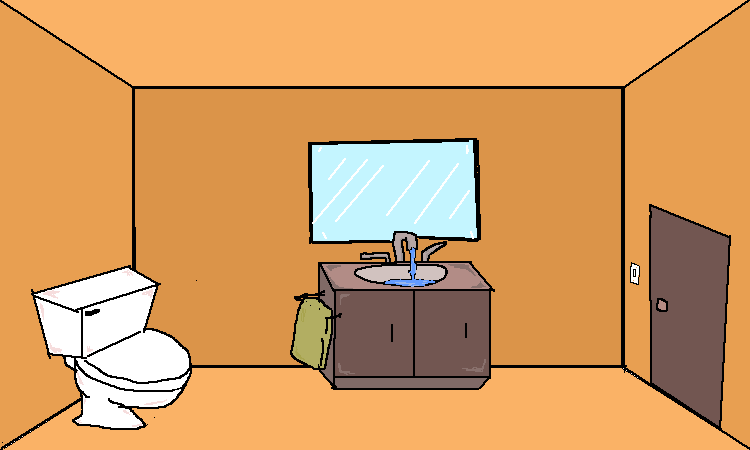
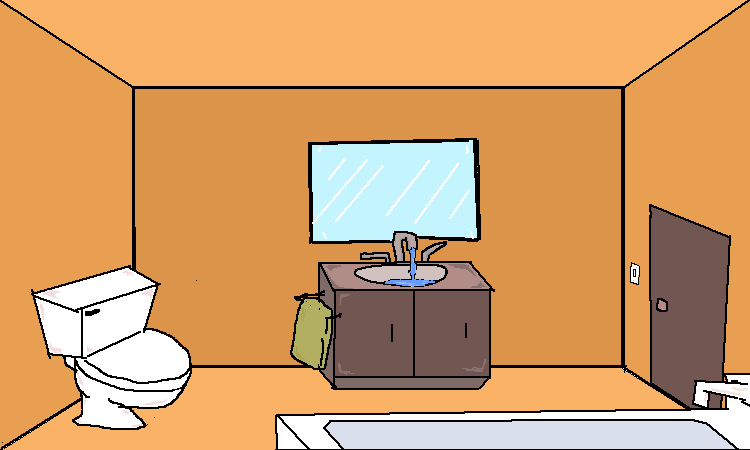
Enhance bathroom interaction with new hover button and image animations; update bedroom button styles and add new assets for living room

Changed region(s): [[0.368, 0.8089, 1.0, 1.0]]

diff --git a/client/bathroom.html b/client/bathroom.html
@@ -49,7 +49,27 @@
             padding: 0.5rem 1rem;
             border-radius: 0.5rem;
             cursor: pointer;
+            /* transition: background-color 0.3s ease; */
+            background-color: transparent;
+        }
+
+        #hoverButton4 {
+            position: absolute;
+            bottom: 10px; /* Position the button at the bottom of the image */
+            left: 50%; /* Center horizontally */
+            transform: translateX(-50%); /* Adjust for the button's width */
+            background-color: transparent; /* Semi-transparent background */
+            color: transparent; /* Makes the text transparent */
+            border: none;
+            padding: 0.5rem 1rem;
+            border-radius: 0.5rem;
+            cursor: pointer;
             transition: background-color 0.3s ease;
+            bottom: 75px;
+        }
+
+        #hoverButton4:hover {
+            background-color: transparent; /* Darker background on hover */
         }
     </style>
 </head>
@@ -64,12 +84,14 @@
             <button class="change-img-button" id="hoverButton2">Hover to Show Image 2</button>
             <button class="change-img-button" id="hoverButton3">Hover to Show Image 3</button>
         </div>
+        <button class="change-img-button" id="hoverButton4">Hover to Show Image 3</button>
     </div>
 
     <script>
         const button1 = document.getElementById('hoverButton1');
         const button2 = document.getElementById('hoverButton2');
         const button3 = document.getElementById('hoverButton3');
+        const button4 = document.getElementById('hoverButton4');
         const displayImage = document.getElementById('displayImage');
 
         button1.addEventListener('mouseover', () => {
@@ -93,6 +115,14 @@
         });
 
         button3.addEventListener('mouseout', () => {
+            displayImage.src = 'src/assets/bathroom/Washroom.png';
+        });
+
+        button4.addEventListener('mouseover', () => {
+            displayImage.src = 'src/assets/bathroom/BathtubAnimation.png';
+        });
+
+        button4.addEventListener('mouseout', () => {
             displayImage.src = 'src/assets/bathroom/Washroom.png';
         });
 

diff --git a/client/bedroom.html b/client/bedroom.html
@@ -50,6 +50,7 @@
             border-radius: 0.5rem;
             cursor: pointer;
             transition: background-color 0.3s ease;
+            background-color: transparent; /* Semi-transparent background */
         }
     </style>
 </head>
